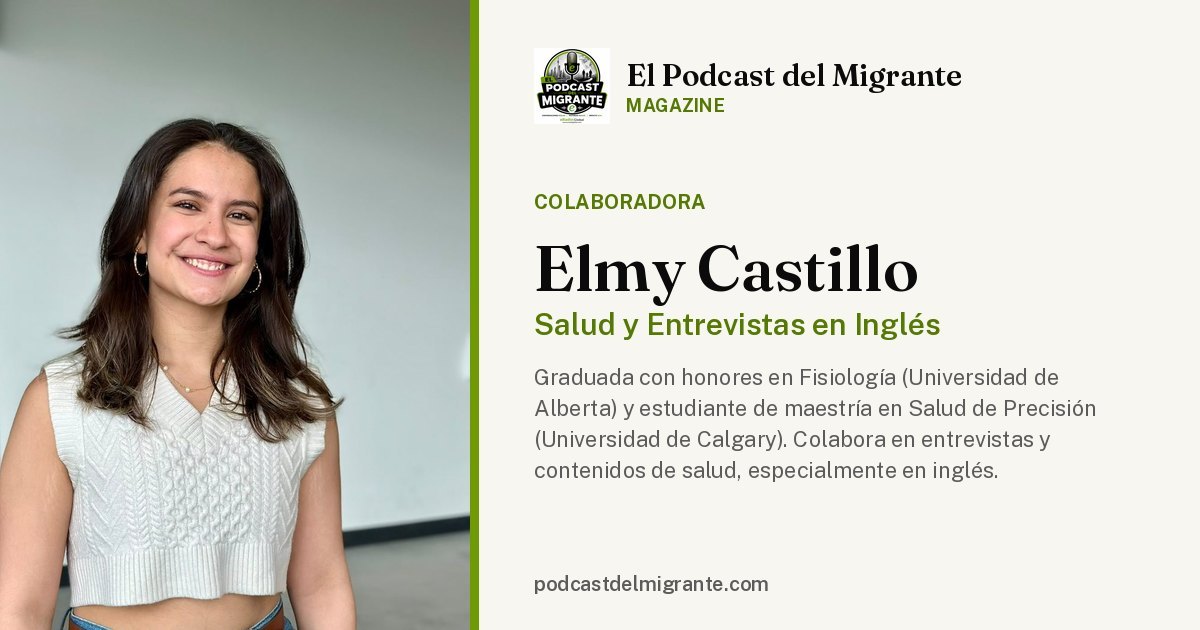
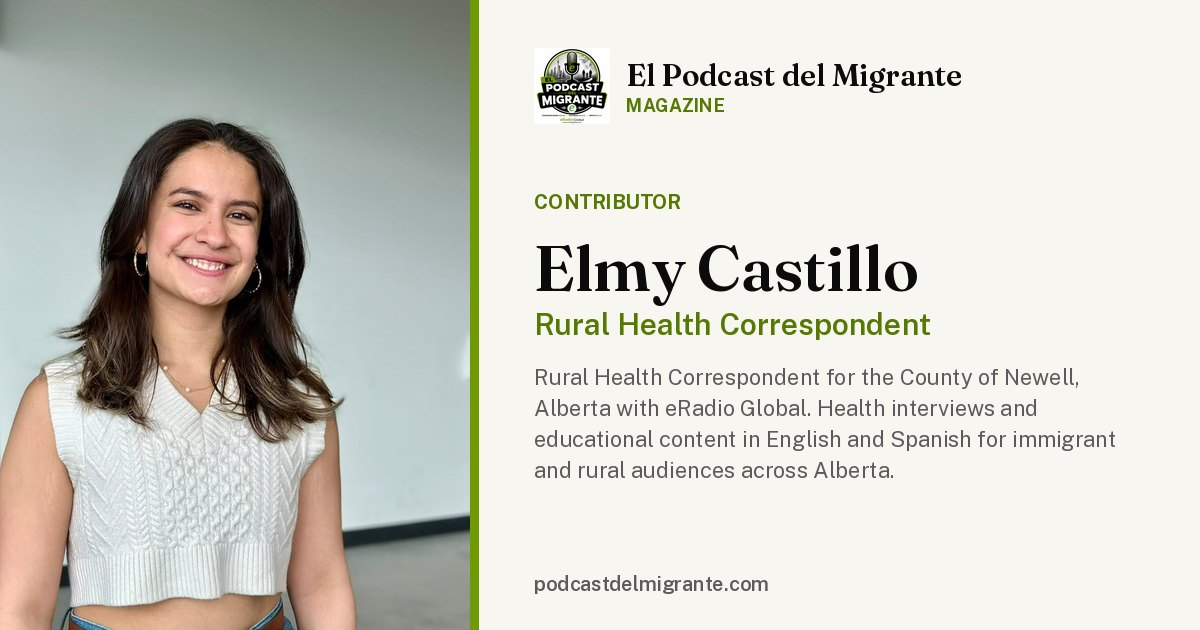
Colaboradores: perfil de Elmy Castillo en inglés (Rural Health Correspondent)
- Nueva biografía oficial en inglés, cargo editorial y afiliaciones
  (eRadio Global | El Podcast del Migrante Magazine)
- Campo lang: "en": títulos, botones y mensajes del perfil en inglés
  (Interviews, Watch Interview, Share Profile, Copy Link)
- SEO, Open Graph, Twitter y tarjeta social en inglés (og:locale en_CA)
- Se conservan foto, entrevista y URL pública; Carlos sin cambios

Claude-Session: https://claude.ai/code/session_0188zSv8ucpvD3okM1CQcPpS

Changed region(s): [[0.4317, 0.573, 0.925, 0.7841], [0.4317, 0.4825, 0.8017, 0.5429], [0.4625, 0.3016, 0.5858, 0.3317]]

diff --git a/js/colaborador.js b/js/colaborador.js
@@ -16,6 +16,9 @@
   (`interviews`, se cargan desde YouTube solo al pulsar) y los botones
   «Compartir perfil» y «Copiar enlace» con su URL pública
   (colaborador-<id>, generada por scripts/build-contributor-pages.mjs).
+
+  Con `lang: "en"` en el colaborador, todo el perfil (títulos, botones y
+  mensajes) se muestra en inglés (textos en UI.en).
 ========================================================================= */
 
 (function () {
@@ -43,10 +46,51 @@
     return SITE_ORIGIN + "/colaborador-" + c.id;
   }
 
-  const LANG_LABEL = { en: "Entrevista en inglés", es: "Entrevista en español" };
+  /* Textos propios del perfil, según `lang` del colaborador */
+  const UI = {
+    es: {
+      langLabel: { en: "Entrevista en inglés", es: "Entrevista en español" },
+      interview: "Entrevista",
+      interviews: "Entrevistas",
+      videoNote: "Al reproducirlo, el video se carga desde YouTube.",
+      playVideo: "Reproducir video",
+      watch: "Ver en YouTube",
+      newTab: " (se abre en una pestaña nueva)",
+      related: (title) => `Lee nuestra cobertura en español: ${esc(title)}`,
+      share: "Compartir perfil",
+      copy: "Copiar enlace",
+      copied: "Enlace copiado: ",
+      copyThis: "Copia este enlace: ",
+      photoOf: "Fotografía de ",
+      proSite: "Visitar sitio profesional",
+      licensedIn: "Licenciado en:",
+    },
+    en: {
+      langLabel: { en: "English interview", es: "Spanish interview" },
+      interview: "Interview",
+      interviews: "Interviews",
+      videoNote: "The video loads from YouTube when you play it.",
+      playVideo: "Play video",
+      watch: "Watch Interview",
+      newTab: " (opens in a new tab)",
+      related: () => "Read our coverage (in Spanish)",
+      share: "Share Profile",
+      copy: "Copy Link",
+      copied: "Link copied: ",
+      copyThis: "Copy this link: ",
+      photoOf: "Photograph of ",
+      proSite: "Visit professional website",
+      licensedIn: "Licensed in:",
+    },
+  };
+
+  function ui(c) {
+    return UI[c.lang] || UI.es;
+  }
 
   function interviewsHtml(c) {
     if (!c.interviews || !c.interviews.length) return "";
+    const t = ui(c);
     const items = c.interviews
       .map((iv) => {
         const related = iv.relatedArticleSlug && typeof ARTICLES !== "undefined"
@@ -55,26 +99,26 @@
         const langAttr = iv.lang ? ` lang="${esc(iv.lang)}"` : "";
         return `
           <article class="profile-interview">
-            <span class="profile-interview__lang">${esc(LANG_LABEL[iv.lang] || "Entrevista")}${iv.lang === "en" ? ' · <span lang="en">English interview</span>' : ""}</span>
+            <span class="profile-interview__lang">${esc(t.langLabel[iv.lang] || t.interview)}${iv.lang === "en" && c.lang !== "en" ? ' · <span lang="en">English interview</span>' : ""}</span>
             <h3 class="profile-interview__title"${langAttr}>${esc(iv.title)}</h3>
-            ${VideoCover.html({ id: iv.youtubeId, title: iv.title })}
-            <p class="article-video__note">Al reproducirlo, el video se carga desde YouTube.</p>
+            ${VideoCover.html({ id: iv.youtubeId, title: iv.title, playLabel: t.playVideo })}
+            <p class="article-video__note">${t.videoNote}</p>
             <p class="profile-interview__links">
-              <a href="https://www.youtube.com/watch?v=${encodeURIComponent(iv.youtubeId)}" target="_blank" rel="noopener">Ver en YouTube<span class="sr-only"> (se abre en una pestaña nueva)</span></a>
-              ${related ? ` · <a href="articulo-${encodeURIComponent(related.slug)}">Lee nuestra cobertura en español: ${esc(related.title)}</a>` : ""}
+              <a href="https://www.youtube.com/watch?v=${encodeURIComponent(iv.youtubeId)}" target="_blank" rel="noopener">${t.watch}<span class="sr-only">${t.newTab}</span></a>
+              ${related ? ` · <a href="articulo-${encodeURIComponent(related.slug)}">${t.related(related.title)}</a>` : ""}
             </p>
           </article>`;
       })
       .join("");
     return `
       <section class="profile-column profile-interviews" aria-labelledby="interviewsTitle">
-        <h2 class="section-title" id="interviewsTitle">Entrevistas</h2>
+        <h2 class="section-title" id="interviewsTitle">${t.interviews}</h2>
         ${items}
       </section>`;
   }
 
   function englishHtml(c) {
-    if (!c.en || !c.en.longBio) return "";
+    if (!c.en || !c.en.longBio || c.lang === "en") return "";
     return `
       <section class="profile-column profile-en" lang="en" aria-labelledby="enTitle">
         <h2 class="section-title" id="enTitle">About ${esc(c.name.split(" ")[0])} <span class="profile-en__badge">English</span></h2>
@@ -83,11 +127,12 @@
       </section>`;
   }
 
-  function shareHtml() {
+  function shareHtml(c) {
+    const t = ui(c);
     return `
       <div class="profile-share">
-        <button type="button" class="btn-outline btn-outline--dark" data-share-profile>Compartir perfil</button>
-        <button type="button" class="btn-outline btn-outline--dark" data-copy-link>Copiar enlace</button>
+        <button type="button" class="btn-outline btn-outline--dark" data-share-profile>${t.share}</button>
+        <button type="button" class="btn-outline btn-outline--dark" data-copy-link>${t.copy}</button>
         <p class="profile-share__status" role="status" aria-live="polite"></p>
       </div>`;
   }
@@ -115,6 +160,7 @@
     const root = document.getElementById("profileRoot");
     const status = root.querySelector(".profile-share__status");
     const url = profileUrl(c);
+    const t = ui(c);
     const say = (msg) => { if (status) status.textContent = msg; };
     const share = root.querySelector("[data-share-profile]");
     if (share) {
@@ -127,11 +173,11 @@
             if (e && e.name === "AbortError") return;
           }
         }
-        say((await copyText(url)) ? "Enlace copiado: " + url : "Copia este enlace: " + url);
+        say((await copyText(url)) ? t.copied + url : t.copyThis + url);
       });
     }
     const copy = root.querySelector("[data-copy-link]");
-    if (copy) copy.addEventListener("click", async () => say((await copyText(url)) ? "Enlace copiado: " + url : "Copia este enlace: " + url));
+    if (copy) copy.addEventListener("click", async () => say((await copyText(url)) ? t.copied + url : t.copyThis + url));
     VideoCover.bind(root);
   }
 
@@ -176,19 +222,21 @@
 
   function renderProfile(contributor) {
     document.title = contributor.name + " — El Podcast del Migrante Magazine";
+    const t = ui(contributor);
+    if (contributor.lang) document.getElementById("main")?.setAttribute("lang", contributor.lang);
 
     const avatar = contributor.photo
       ? `<img class="profile-avatar" src="${contributor.photo}" alt="${contributor.name}">`
       : `<div class="profile-avatar profile-avatar--initials">${contributor.name.charAt(0)}</div>`;
     const photoLarge = contributor.photoLarge
-      ? `<figure class="profile-photo"><img src="${contributor.photoLarge}" alt="Fotografía de ${esc(contributor.name)}" width="900" height="1200"></figure>`
+      ? `<figure class="profile-photo"><img src="${contributor.photoLarge}" alt="${t.photoOf}${esc(contributor.name)}" width="900" height="1200"></figure>`
       : "";
 
     const columns = columnsByAuthor(contributor.id);
     const columnsHtml = columns.map(columnSectionHtml).join("");
 
     const proSiteBtn = contributor.professionalSite
-      ? `<a class="btn-outline btn-outline--dark" href="${contributor.professionalSite}" target="_blank" rel="noopener">Visitar sitio profesional</a>`
+      ? `<a class="btn-outline btn-outline--dark" href="${contributor.professionalSite}" target="_blank" rel="noopener">${t.proSite}</a>`
       : "";
 
     document.getElementById("profileRoot").innerHTML = `
@@ -204,11 +252,11 @@
       <p class="article-dek">${contributor.bio}</p>
       ${photoLarge}
       ${paragraphs(contributor.longBio, "profile-longbio")}
-      ${contributor.licensedIn ? `<p class="profile-licensed"><strong>Licenciado en:</strong> ${contributor.licensedIn}</p>` : ""}
+      ${contributor.licensedIn ? `<p class="profile-licensed"><strong>${t.licensedIn}</strong> ${contributor.licensedIn}</p>` : ""}
       ${contributor.brandLogo ? `<div class="profile-brand"><img src="${contributor.brandLogo.src}" alt="${contributor.brandLogo.alt}"></div>` : ""}
 
       ${proSiteBtn ? `<div class="profile-actions">${proSiteBtn}</div>` : ""}
-      ${shareHtml()}
+      ${shareHtml(contributor)}
 
       ${columnsHtml}
       ${interviewsHtml(contributor)}

diff --git a/colaborador-elmy-castillo.html b/colaborador-elmy-castillo.html
@@ -1,34 +1,34 @@
 <!DOCTYPE html>
-<html lang="es" id="htmlRoot" data-contributor-id="elmy-castillo">
+<html lang="en" id="htmlRoot" data-contributor-id="elmy-castillo">
 <head>
 <!-- Generado por scripts/build-contributor-pages.mjs a partir de js/data.js (CONTRIBUTORS). No editar a mano. -->
 <meta charset="UTF-8">
 <meta name="viewport" content="width=device-width, initial-scale=1.0">
-<title>Elmy Castillo — Salud y Entrevistas en Inglés | El Podcast del Migrante Magazine</title>
-<meta id="metaDescription" name="description" content="Graduada con honores en Fisiología (Universidad de Alberta) y estudiante de maestría en Salud de Precisión (Universidad de Calgary). Colabora en entrevistas y contenidos de salud, especialmente en inglés.">
+<title>Elmy Castillo — Rural Health Correspondent | El Podcast del Migrante Magazine</title>
+<meta id="metaDescription" name="description" content="Rural Health Correspondent for the County of Newell, Alberta with eRadio Global. Health interviews and educational content in English and Spanish for immigrant and rural audiences across Alberta.">
 <link id="canonicalLink" rel="canonical" href="https://podcastdelmigrante.com/colaborador-elmy-castillo">
 
 <!-- Open Graph: cada colaborador tiene su página colaborador-<id>.html con
      estas etiquetas ya completas (scripts/build-contributor-pages.mjs) -->
 <meta id="ogType" property="og:type" content="profile">
 <meta property="og:site_name" content="El Podcast del Migrante Magazine">
-<meta id="ogTitle" property="og:title" content="Elmy Castillo — Salud y Entrevistas en Inglés | El Podcast del Migrante Magazine">
-<meta id="ogDescription" property="og:description" content="Graduada con honores en Fisiología (Universidad de Alberta) y estudiante de maestría en Salud de Precisión (Universidad de Calgary). Colabora en entrevistas y contenidos de salud, especialmente en inglés.">
+<meta id="ogTitle" property="og:title" content="Elmy Castillo — Rural Health Correspondent | El Podcast del Migrante Magazine">
+<meta id="ogDescription" property="og:description" content="Rural Health Correspondent for the County of Newell, Alberta with eRadio Global. Health interviews and educational content in English and Spanish for immigrant and rural audiences across Alberta.">
 <meta id="ogUrl" property="og:url" content="https://podcastdelmigrante.com/colaborador-elmy-castillo">
 <meta id="ogImage" property="og:image" content="https://podcastdelmigrante.com/assets/social/colaborador-elmy-castillo.jpg">
 <meta property="og:image:secure_url" content="https://podcastdelmigrante.com/assets/social/colaborador-elmy-castillo.jpg">
 <meta property="og:image:type" content="image/jpeg">
 <meta property="og:image:width" content="1200">
 <meta property="og:image:height" content="630">
-<meta id="ogImageAlt" property="og:image:alt" content="Elmy Castillo, colaboradora de El Podcast del Migrante Magazine — Salud y Entrevistas en Inglés">
-<meta id="ogLocale" property="og:locale" content="es_CA">
+<meta id="ogImageAlt" property="og:image:alt" content="Elmy Castillo, contributor at El Podcast del Migrante Magazine — Rural Health Correspondent">
+<meta id="ogLocale" property="og:locale" content="en_CA">
 
 <!-- Twitter -->
 <meta name="twitter:card" content="summary_large_image">
-<meta id="twitterTitle" name="twitter:title" content="Elmy Castillo — Salud y Entrevistas en Inglés | El Podcast del Migrante Magazine">
-<meta id="twitterDescription" name="twitter:description" content="Graduada con honores en Fisiología (Universidad de Alberta) y estudiante de maestría en Salud de Precisión (Universidad de Calgary). Colabora en entrevistas y contenidos de salud, especialmente en inglés.">
+<meta id="twitterTitle" name="twitter:title" content="Elmy Castillo — Rural Health Correspondent | El Podcast del Migrante Magazine">
+<meta id="twitterDescription" name="twitter:description" content="Rural Health Correspondent for the County of Newell, Alberta with eRadio Global. Health interviews and educational content in English and Spanish for immigrant and rural audiences across Alberta.">
 <meta id="twitterImage" name="twitter:image" content="https://podcastdelmigrante.com/assets/social/colaborador-elmy-castillo.jpg">
-<meta id="twitterImageAlt" name="twitter:image:alt" content="Elmy Castillo, colaboradora de El Podcast del Migrante Magazine — Salud y Entrevistas en Inglés">
+<meta id="twitterImageAlt" name="twitter:image:alt" content="Elmy Castillo, contributor at El Podcast del Migrante Magazine — Rural Health Correspondent">
 
 <link rel="icon" type="image/png" href="assets/favicon.png">
 <link rel="apple-touch-icon" href="assets/favicon.png">

diff --git a/js/data.js b/js/data.js
@@ -293,6 +293,10 @@ const EDITION_MONTHS = [
    - longBio: texto en español (párrafos separados por una línea en
      blanco)
    - en: { specialty, longBio } — presentación en inglés (opcional)
+   - lang: "en" — el perfil completo (textos, botones, SEO y tarjeta
+     para compartir) se publica en inglés; specialty, bio, longBio,
+     roleLabel, shareSpecialty y shareDescription van en inglés
+     (opcional; por defecto "es")
    - interviews: [{ youtubeId, title, lang: "es" | "en", date,
      relatedArticleSlug }] — entrevistas con video (se cargan al pulsar)
 
@@ -328,16 +332,14 @@ const CONTRIBUTORS = [
   },
   {
     id: "elmy-castillo",
+    lang: "en",
     photo: "assets/elmy-castillo-avatar.jpg",
     photoLarge: "assets/elmy-castillo.jpg",
     name: "Elmy Castillo",
-    specialty: "Colaboradora — Salud y Entrevistas en Inglés",
-    bio: "Entrevistas y contenidos de salud, especialmente en inglés, para las comunidades migrantes.",
-    longBio: "Elmy Castillo se graduó de la Universidad de Alberta en 2025 con una licenciatura con honores en Fisiología. Actualmente cursa una maestría en Salud de Precisión en la Universidad de Calgary, con especialización en Educación y Liderazgo en Profesiones de la Salud.\n\nAdemás, trabaja como analista de investigación en el sector de la salud en una firma local de capital privado.\n\nComo colaboradora de El Podcast del Migrante, participa en entrevistas y contenidos informativos relacionados con la salud, especialmente en inglés, ayudándonos a llegar a las comunidades migrantes que prefieren informarse en ese idioma.",
-    en: {
-      specialty: "Contributor — Health and English-Language Interviews",
-      longBio: "Elmy Castillo graduated from the University of Alberta in 2025 with an honours bachelor's degree in Physiology. She is currently pursuing a Master's in Precision Health at the University of Calgary, specializing in Health Professions Education and Leadership.\n\nShe also works as a research analyst in the healthcare sector at a local private equity firm.\n\nAs a contributor to El Podcast del Migrante, she takes part in interviews and informational content related to health, especially in English, helping us reach migrant communities who prefer to get their information in that language.",
-    },
+    specialty: "Rural Health Correspondent | Health Education & Interviews",
+    organization: "eRadio Global | El Podcast del Migrante Magazine",
+    bio: "Health interviews and educational content in English and Spanish for immigrant and rural audiences across Alberta.",
+    longBio: "In 2025, Elmy Castillo earned a degree in Honours Physiology from the University of Alberta, and she is now pursuing a Master's in Precision Health at the University of Calgary with a focus on Health Professions Education and Leadership.\n\nCurrently, she works as a healthcare research analyst at a private equity firm, is the Rural Health Correspondent for the County of Newell, Alberta with eRadio Global, and is a contributor to El Podcast del Migrante, where she produces health interviews and educational content in English and Spanish for immigrant and rural audiences across Alberta.\n\nShe is dedicated to rural health, health education, and expanding access to reliable health information in underserved communities. Elmy Castillo is now preparing her medical school applications, including the Cumming School of Medicine at the University of Calgary.",
     interviews: [
       {
         youtubeId: "z2Ih590xSP4",
@@ -348,9 +350,9 @@ const CONTRIBUTORS = [
     ],
     link: "colaborador-elmy-castillo",
     website: "",
-    roleLabel: "Colaboradora",
-    shareSpecialty: "Salud y Entrevistas en Inglés",
-    shareDescription: "Graduada con honores en Fisiología (Universidad de Alberta) y estudiante de maestría en Salud de Precisión (Universidad de Calgary). Colabora en entrevistas y contenidos de salud, especialmente en inglés.",
+    roleLabel: "Contributor",
+    shareSpecialty: "Rural Health Correspondent",
+    shareDescription: "Rural Health Correspondent for the County of Newell, Alberta with eRadio Global. Health interviews and educational content in English and Spanish for immigrant and rural audiences across Alberta.",
     socialPhoto: { src: "assets/elmy-castillo.jpg", focus: "50% 30%", zoom: 1.15 },
   },
 ];

diff --git a/js/video-cover.js b/js/video-cover.js
@@ -24,6 +24,7 @@
   function html(opts) {
     const id = opts.id;
     const title = opts.title || "Video";
+    const playLabel = opts.playLabel || "Reproducir video";
     return `
       <div class="article-video__frame article-video__frame--cover" data-video-id="${esc(id)}" data-video-title="${esc(title)}">
         <img class="article-video__thumb" src="${thumb(id, "maxresdefault")}" alt="" loading="lazy" decoding="async" width="1280" height="720" data-video-thumb>
@@ -31,7 +32,7 @@
           <span class="article-video__play-icon" aria-hidden="true">
             <svg viewBox="0 0 24 24" width="30" height="30"><polygon points="8,5 19,12 8,19" fill="currentColor"/></svg>
           </span>
-          <span class="article-video__play-label">Reproducir video<span class="sr-only">: ${esc(title)}</span></span>
+          <span class="article-video__play-label">${esc(playLabel)}<span class="sr-only">: ${esc(title)}</span></span>
         </button>
       </div>`;
   }
